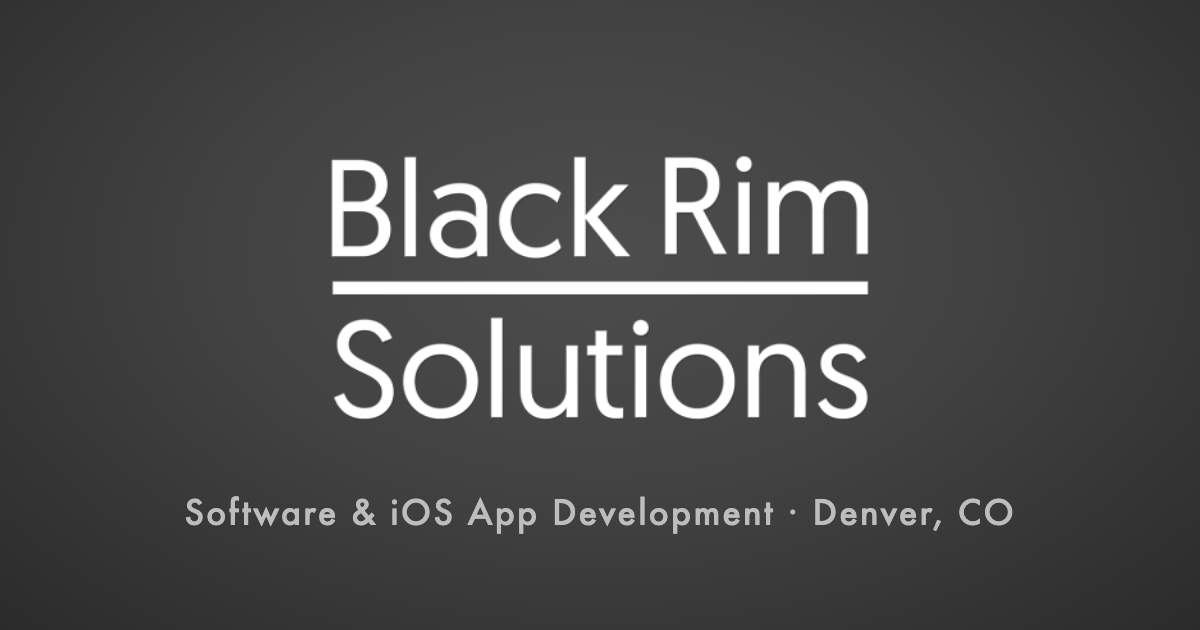
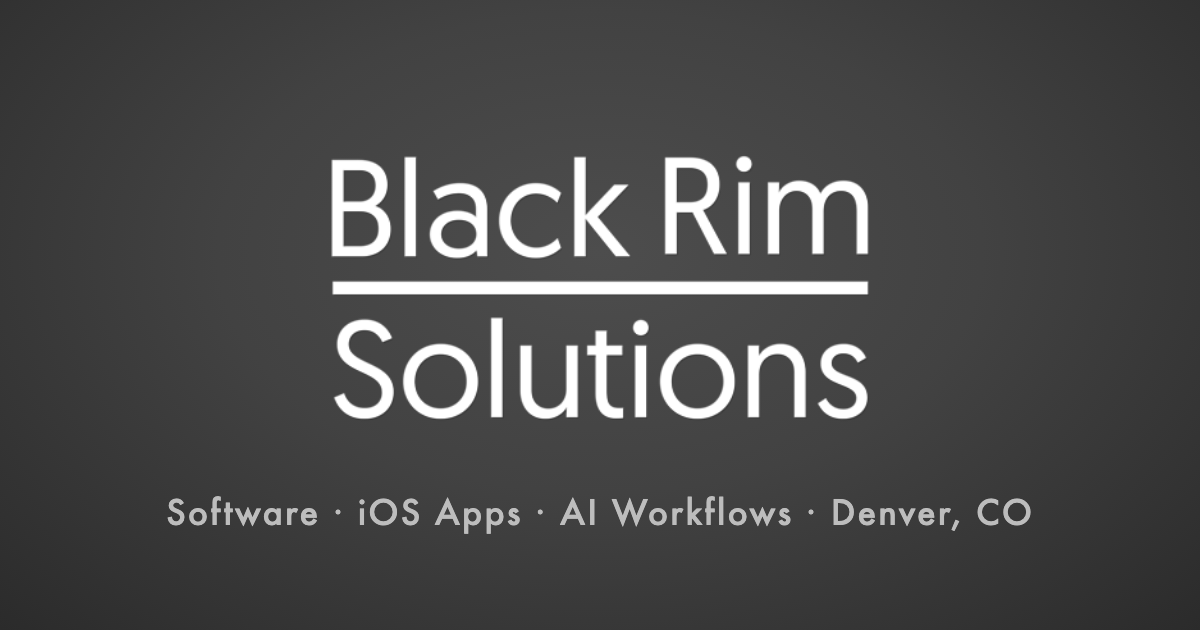
Add AI workflows section and AI positioning
New AI section (automation, assistants on your data, document
processing, AI app features, AI-accelerated development, team
training) with a 3-step engagement process. Updated hero, metadata,
About and share image; CSS now revalidates so style updates show
immediately.

Changed region(s): [[0.1233, 0.7841, 0.8633, 0.8444]]

diff --git a/public/index.html b/public/index.html
@@ -3,8 +3,8 @@
 <head>
   <meta charset="UTF-8">
   <meta name="viewport" content="width=device-width, initial-scale=1">
-  <title>Black Rim Solutions LLC | Software &amp; iOS App Development</title>
-  <meta name="description" content="Black Rim Solutions LLC builds custom software and iOS apps for businesses. 15+ years of software engineering experience, based in Denver, Colorado.">
+  <title>Black Rim Solutions LLC | Software, iOS Apps &amp; AI Workflows</title>
+  <meta name="description" content="Black Rim Solutions LLC builds custom software, iOS apps and AI-powered workflows for businesses. 15+ years of software engineering experience, based in Denver, Colorado.">
   <link rel="canonical" href="https://blackrimsolutions.com/">
   <meta name="theme-color" content="#1a1a1a">
   <link rel="icon" href="/favicon.svg" type="image/svg+xml">
@@ -12,8 +12,8 @@
 
   <meta property="og:type" content="website">
   <meta property="og:site_name" content="Black Rim Solutions LLC">
-  <meta property="og:title" content="Black Rim Solutions LLC | Software &amp; iOS App Development">
-  <meta property="og:description" content="Clear vision for your software. Custom business software and iOS apps from Denver, Colorado.">
+  <meta property="og:title" content="Black Rim Solutions LLC | Software, iOS Apps &amp; AI Workflows">
+  <meta property="og:description" content="Clear vision for your software. Custom software, iOS apps and AI workflows from Denver, Colorado.">
   <meta property="og:url" content="https://blackrimsolutions.com/">
   <meta property="og:image" content="https://blackrimsolutions.com/img/og.png">
   <meta name="twitter:card" content="summary_large_image">
@@ -32,7 +32,7 @@
     "url": "https://blackrimsolutions.com",
     "logo": "https://blackrimsolutions.com/img/logo.png",
     "email": "info@blackrimsolutions.com",
-    "description": "Custom software solutions and iOS app development for businesses.",
+    "description": "Custom software solutions, iOS app development and AI workflow automation for businesses.",
     "address": { "@type": "PostalAddress", "addressLocality": "Denver", "addressRegion": "CO", "addressCountry": "US" },
     "founder": { "@type": "Person", "name": "Jay Mascarenas", "url": "https://jaymascarenas.com" },
     "sameAs": ["https://www.linkedin.com/in/jaymascarenas/", "https://github.com/jaymascarenas/"]
@@ -49,6 +49,7 @@
       </a>
       <nav class="nav" aria-label="Main">
         <a href="#services">Services</a>
+        <a href="#ai">AI</a>
         <a href="#apps">Apps</a>
         <a class="nav-optional" href="#about">About</a>
         <a href="#contact">Contact</a>
@@ -62,7 +63,7 @@
       <div class="container">
         <img class="hero-logo" src="/img/logo.png" alt="Black Rim Solutions" width="500" height="300">
         <h1>Clear vision for your software.</h1>
-        <p class="lede">Custom software and iOS apps for businesses, built by an engineer with 15+ years in the craft.</p>
+        <p class="lede">Custom software, iOS apps and AI-powered workflows for businesses, built by an engineer with 15+ years in the craft.</p>
         <a class="btn btn-solid" href="mailto:info@blackrimsolutions.com?subject=Project%20inquiry">Start a project</a>
       </div>
     </section>
@@ -97,6 +98,58 @@
             <p>A clear-eyed look at your existing software: architecture reviews, modernization plans and hands-on help shipping.</p>
           </article>
         </div>
+      </div>
+    </section>
+
+    <!-- AI -->
+    <section class="section section-ai" id="ai">
+      <div class="container">
+        <div class="section-head">
+          <span class="eyebrow">AI workflows</span>
+          <h2>Put AI to work in your business</h2>
+          <p>AI can take hours of repetitive work off your team's plate each week. I help businesses adopt it in practical ways: automating the busywork, connecting AI assistants to the tools you already use, and keeping a person in the loop wherever it matters.</p>
+        </div>
+        <div class="grid grid-3">
+          <article class="card">
+            <svg class="icon" viewBox="0 0 24 24" fill="none" stroke="currentColor" stroke-width="1.5" aria-hidden="true"><path d="M4 7h11M4 12h7M4 17h9"/><path d="m15 14 3 3 4-6"/></svg>
+            <h3>Workflow automation</h3>
+            <p>Hand off the repetitive work: intake forms, data entry, report generation, email triage and follow-ups. AI does the reading, sorting and first drafts, and your team does the deciding.</p>
+          </article>
+          <article class="card">
+            <svg class="icon" viewBox="0 0 24 24" fill="none" stroke="currentColor" stroke-width="1.5" aria-hidden="true"><path d="M4 5h16v11H9l-5 4z"/><path d="M8 10h8M8 13h5"/></svg>
+            <h3>AI assistants on your data</h3>
+            <p>Connect assistants like Claude and ChatGPT to your systems through secure integrations (Model Context Protocol and APIs), so your team can ask questions and get things done in plain language.</p>
+          </article>
+          <article class="card">
+            <svg class="icon" viewBox="0 0 24 24" fill="none" stroke="currentColor" stroke-width="1.5" aria-hidden="true"><path d="M14 3H6v18h12V7z"/><path d="M14 3v4h4M9 12h6M9 16h6"/></svg>
+            <h3>Document &amp; data processing</h3>
+            <p>Pull, summarize and organize information from invoices, contracts, emails and PDFs, turning stacks of documents into clean data you can search and use.</p>
+          </article>
+          <article class="card">
+            <svg class="icon" viewBox="0 0 24 24" fill="none" stroke="currentColor" stroke-width="1.5" aria-hidden="true"><rect x="6" y="2" width="12" height="20" rx="3"/><path d="m12 7 1.2 2.8L16 11l-2.8 1.2L12 15l-1.2-2.8L8 11l2.8-1.2z"/></svg>
+            <h3>AI features in your apps</h3>
+            <p>Add smart search, summaries, chat and recommendations to your iOS and web apps, using the right model for the job and keeping costs predictable.</p>
+          </article>
+          <article class="card">
+            <svg class="icon" viewBox="0 0 24 24" fill="none" stroke="currentColor" stroke-width="1.5" aria-hidden="true"><path d="m8 8-4 4 4 4M16 8l4 4-4 4M13.5 5l-3 14"/></svg>
+            <h3>AI-accelerated development</h3>
+            <p>I build with modern AI-assisted engineering practices, so you get working software sooner and for less. Every change is still reviewed and tested by an experienced engineer.</p>
+          </article>
+          <article class="card">
+            <svg class="icon" viewBox="0 0 24 24" fill="none" stroke="currentColor" stroke-width="1.5" aria-hidden="true"><circle cx="9" cy="8" r="3"/><path d="M3 20c0-3.3 2.7-6 6-6s6 2.7 6 6M16 5.5a3 3 0 0 1 0 5.5M18 14.5c1.8.9 3 2.9 3 5.5"/></svg>
+            <h3>Team training &amp; adoption</h3>
+            <p>Drawing on years as a bootcamp instructor, I run hands-on sessions that help your team use AI tools effectively and safely in their day-to-day work.</p>
+          </article>
+        </div>
+
+        <ol class="steps" aria-label="How an AI engagement works">
+          <li><strong>1. Find the time sinks</strong><span>We map your workflows and pick the tasks where AI saves the most time with the least risk.</span></li>
+          <li><strong>2. Build a pilot</strong><span>A small working version on your real data, so you can see the results before committing further.</span></li>
+          <li><strong>3. Roll it out</strong><span>Integrate it with your tools, train your team and measure the time saved.</span></li>
+        </ol>
+
+        <p class="ai-note">Your data stays yours: privacy-first tool choices, human review on anything that matters, and no lock-in to a single AI vendor.</p>
+        <p><a class="btn" href="mailto:info@blackrimsolutions.com?subject=AI%20workflows">Talk about AI for your business</a></p>
       </div>
     </section>
 
@@ -163,10 +216,12 @@
           <h2>It's the glasses.</h2>
           <p>Black Rim Solutions is named for the black-rimmed glasses I've worn through every line of code I've written. They're a reminder of what good software takes: seeing the problem clearly before solving it.</p>
           <p>I'm Jay Mascarenas, a software engineer with more than 15 years of experience as a developer, a director and a full-stack bootcamp instructor. Black Rim Solutions LLC is where I put that experience to work for businesses that need software done right, from native iOS apps to the systems behind them.</p>
+          <p>These days I build with AI every day. I've made AI-assisted development and automation a core part of how I work, and I help businesses do the same: practically, safely and without the hype.</p>
           <ul class="stats">
             <li><strong>15+</strong><span>years engineering</span></li>
             <li><strong>iOS</strong><span>Swift &amp; SwiftUI</span></li>
             <li><strong>Full stack</strong><span>web, APIs &amp; cloud</span></li>
+            <li><strong>AI</strong><span>workflows &amp; automation</span></li>
           </ul>
           <div class="social">
             <a href="https://www.linkedin.com/in/jaymascarenas/">LinkedIn</a>

diff --git a/public/css/styles.css b/public/css/styles.css
@@ -180,3 +180,17 @@ p { margin: 0 0 1em; }
 .site-footer nav { display: flex; gap: 20px; flex-wrap: wrap; }
 .site-footer a { color: var(--muted); text-decoration: none; }
 .site-footer a:hover { color: var(--text); }
+
+/* ---------- AI section ---------- */
+.section-ai { background: var(--rim); }
+.section-ai .card { background: #232323; border-color: #3a3a3a; }
+.grid-3 { grid-template-columns: repeat(auto-fit, minmax(280px, 1fr)); }
+@media (min-width: 960px) { .grid-3 { grid-template-columns: repeat(3, 1fr); } }
+.steps {
+  list-style: none; padding: 0; margin: 48px 0 32px;
+  display: grid; gap: 20px; grid-template-columns: repeat(auto-fit, minmax(240px, 1fr));
+  border-top: 1px solid #3a3a3a; padding-top: 32px;
+}
+.steps strong { display: block; font-family: var(--font-display); font-weight: 400; font-size: 1.2rem; margin-bottom: 6px; }
+.steps span { color: var(--muted); font-size: 0.95rem; }
+.ai-note { color: var(--muted); font-size: 0.95rem; max-width: 60ch; }
